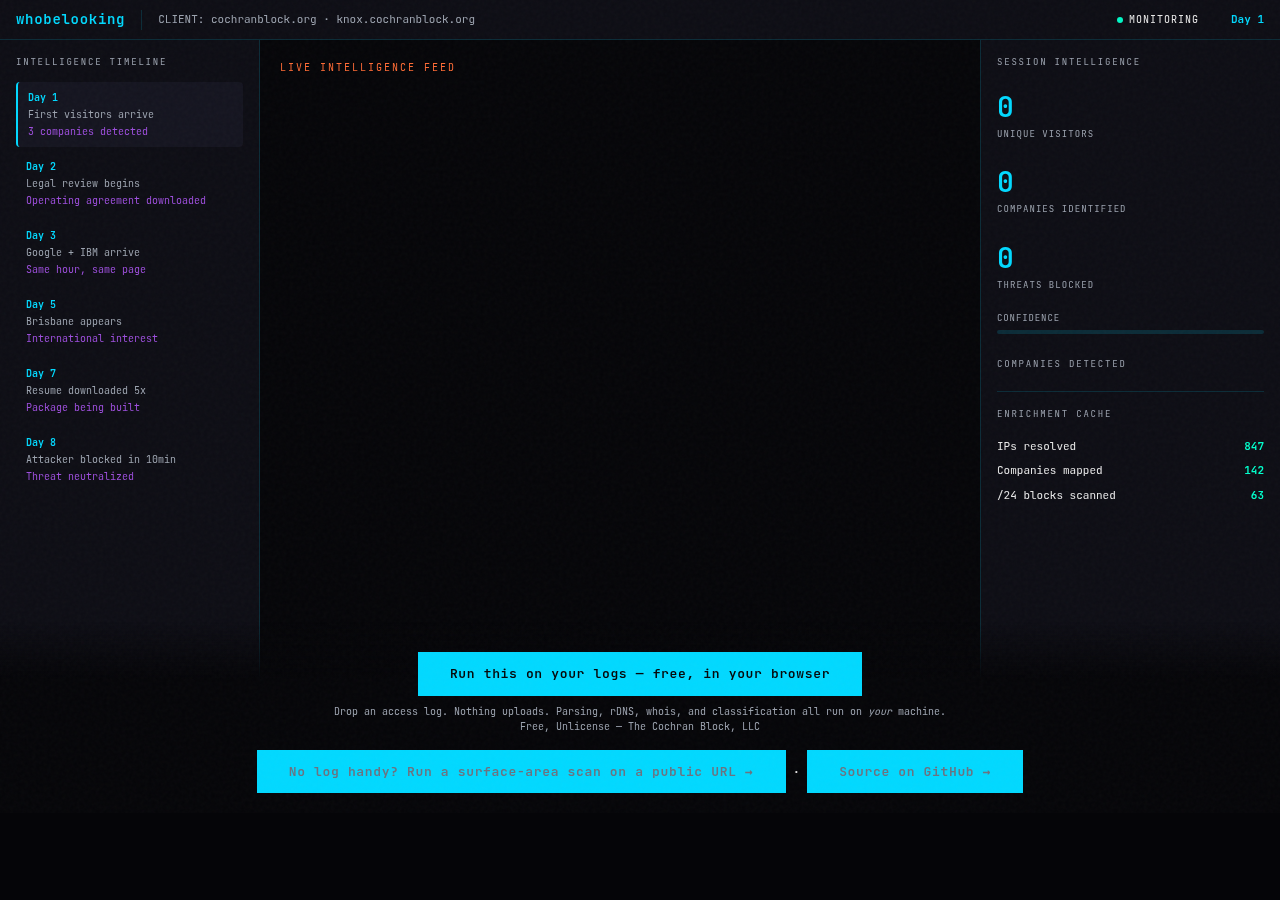
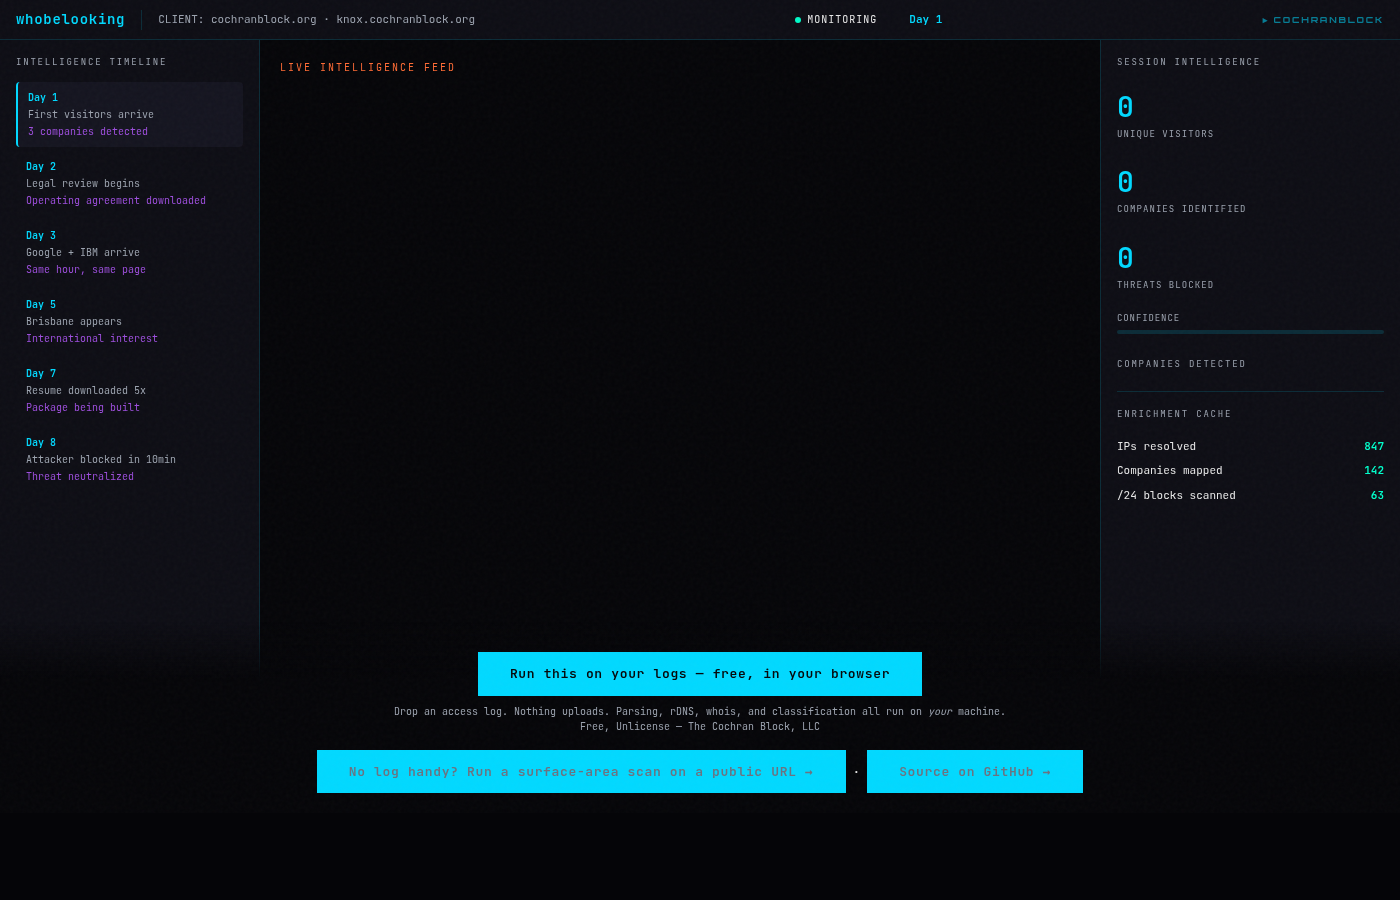
docs: refresh screenshots + add report-page.png evidence
docs/screenshots/ updated via headless Chromium (--no-sandbox) against
live localhost:8082. New report-page.png shows the rendered HTML intelligence
report: 2949 events, 836 IPs, confidence badges, classification gauges,
threat event cards. PROOF_OF_ARTIFACTS.md references the new screenshot.

diff --git a/TIMELINE_OF_INVENTION.md b/TIMELINE_OF_INVENTION.md
@@ -59,6 +59,7 @@ Append-only. Each entry timestamped by git commit. Do not edit prior entries.
 | 2026-05-19 | — | `whobelooking install` — systemd self-host story. Writes `~/.config/systemd/user/whobelooking.service` (user-service, `Restart=on-failure`, `ExecStart` uses current binary path) and prints `systemctl --user daemon-reload / enable --now / status` instructions. `--unit-path` override for non-standard setups. 269 tests, 14/14 standards. |
 | 2026-05-19 | — | SDVOSB copy consistency — README.md and `/skill` contact section both said "SDVOSB Pending"; updated to "SDVOSB Certified" to match the `sdvosb-certified.svg` badge added in 6af872f. |
 | 2026-05-19 | — | Trend/delta view in HTML reports — sidebar panel gains a **Trend** section when actor history is present: shows "N new IPs (M threats) / N returning (M threats)". Derived from `history_total_reports` field already embedded per-IP by `render`. Zero new data collection; hidden when no history exists (fresh install). 269 tests, 14/14 standards. |
+| 2026-05-19 | — | Screenshots refreshed — `docs/screenshots/` updated via headless Chromium against live `localhost:8082`; new `report-page.png` added showing rendered HTML report with confidence scores, trend panel, 2949 events / 836 IPs. |
 <!-- COCHRANBLOCK-BRAND-FOOTER:START - generated by cochranblock/scripts/brand-stamp.sh -->
 
 ---

diff --git a/PROOF_OF_ARTIFACTS.md b/PROOF_OF_ARTIFACTS.md
@@ -43,6 +43,9 @@ Every report caches rDNS, whois, and company ID results in sled. Customer #1's M
 ### Log Analyzer (`/try`)
 ![/try — WASM log analysis, zero upload](docs/screenshots/try-page.png)
 
+### HTML Intelligence Report (`whobelooking render`)
+![HTML report — 2949 events, 836 IPs, confidence scores, trend panel](docs/screenshots/report-page.png)
+
 ## Modules
 
 | Module | Purpose |
